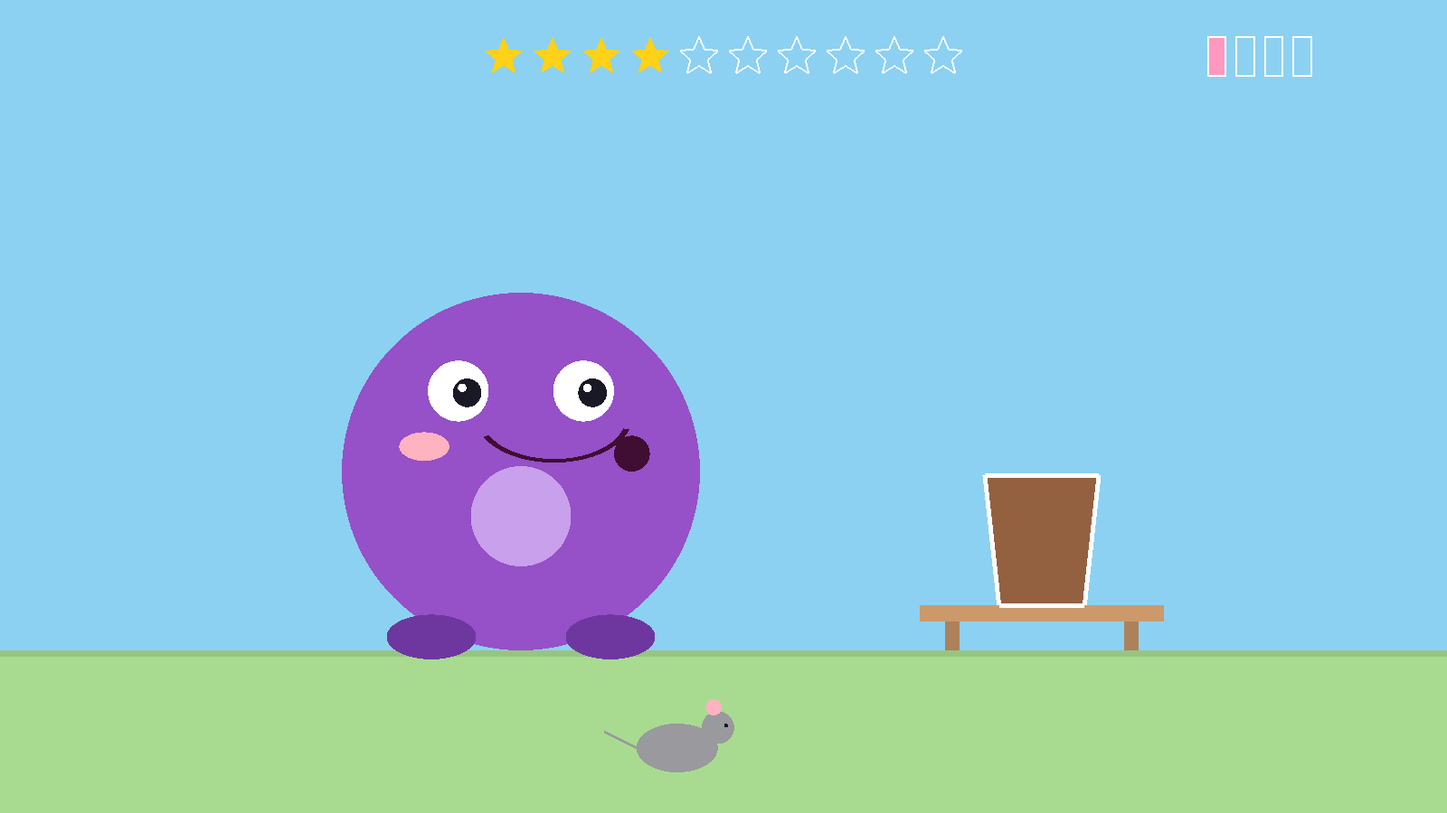
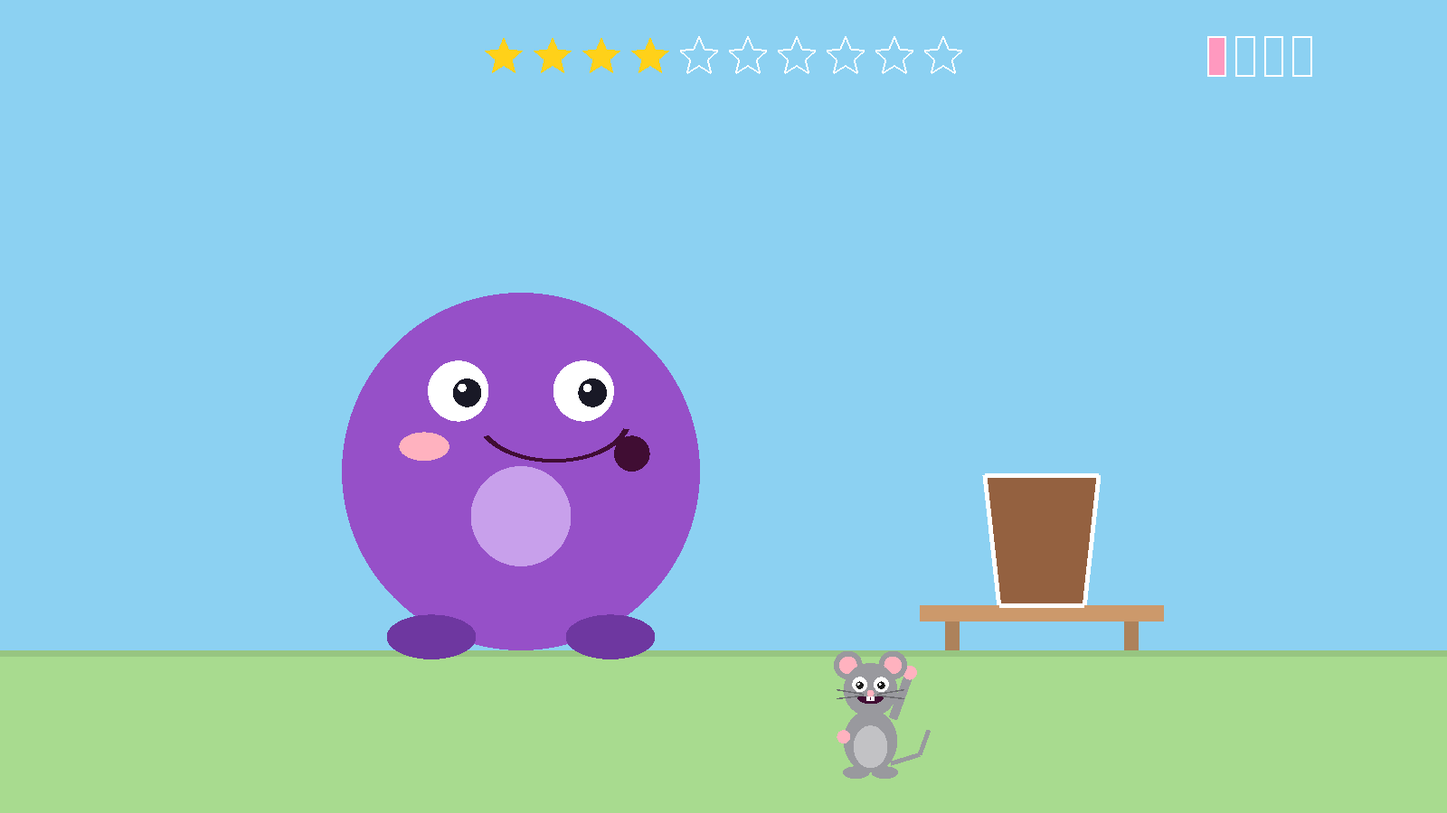
Kids docs: second run with feedback, feedback cards, the mouse's run, trial counts
- handbook/v2/kids.md: a dated section "Second run with feedback
  (2026-10-30, adult, 20 main trials)" (threshold 86.9 % SE 7.1, slope
  5.8, yes-bias 0.11, 0 of 5 false alarms, practice 11 of 12, 13.5 min;
  peak flow about 85 slm at 0 to 35 slm at 95 %), its three reports and
  what changed; frame-by-frame rows for the Mouse (run, cheeky, hide,
  during the whole move) and the practice feedback (right, wrong), the
  demo reveal kept; the comparison table's Trials and Feedback rows; the
  session steps (feedback cards, why a run goes past trial 20, console
  lines); the warning box.
- Images rendered at 1600x900 in a real Psychtoolbox window:
  08_feedback.png (chosen "squishy", the mouse pinched), new
  17_feedback_wrong.png (chosen "squishy" on a catch trial), 02_mouse.png
  (the cheeky mouse by the cup).
- README: a Feedback section, the Trials and Feedback rows, the
  experimenter line and console examples, the session (90 % demo and
  practice levels, as configured), the mouse's run in Poses, the squeak
  in Sounds, the new files, three adult runs, Esc during a move.
- TASKS: item 10.

Changed region(s): [[0.5625, 0.8089, 0.6562, 0.9644], [0.4375, 0.84, 0.5312, 0.9644]]

diff --git a/task/RRST_kids/README.md b/task/RRST_kids/README.md
@@ -18,7 +18,7 @@ a score. They are not feedback, so they are shown in every run, feedback on or o
 
 **Tutorial** (before the practice): free play at level 0 (the child slurps as often as
 they like and watches the belly fill; every slurp sets the reference), two demos with
-no question (the mouse pinching the straw during three slurps at 80 %, then asleep
+no question (the mouse pinching the straw during three slurps at 90 %, then asleep
 during three at 0, each followed by its reveal), and a bridge screen with the two
 answer cards for the experimenter to explain ("Now you say: did the mouse pinch?").
 
@@ -34,10 +34,10 @@ answer cards for the experimenter to explain ("Now you say: did the mouse pinch?
 | Levels | 0-100 % | 0-100 % in 5 % steps; `cfg.child.hardCap` (default 100, the full scale) is enforced at launch and before every move |
 | Start | Psi's choice | forced 70 % (just perceptible for an adult) |
 | Jumps | any | at most 15 % above the highest level so far |
-| Trials | 100 | 30 Psi + 10 catch; stops early when SE < 8 after 20 Psi trials |
+| Trials | 100 | 30 Psi + 10 catch, so up to 40 (plus repeats); stops early when SE < 8 after 20 *Psi* trials (catch trials do not count). The experimenter line counts them: `Trial 21 of up to 28 (Psi 15/20, catch 6/8)` |
 | Breathing | 0.8 s timed inhale | experimenter presses Space when the child is ready; then the child's own breath drives the monster (airflow sensor): the belly fills with the slurp's volume, each counted slurp drains a third of the milkshake with bubbles (`cfg.timing.drain`, 1.0 s), and the trial goes on when `cfg.child.slurps` (3) slurps have counted. No pacing. One timed breath was too hard to catch for a 4.5-year-old (first try, 2026-10-28). Without the sensor: the old timed animation (1.2 s in, 1.8 s out, x3). |
 | Answer | participant clicks | **experimenter clicks** what the child says or points at |
-| Feedback | none | practice only: the truth after every answer, shown (the mouse pinching the straw, or asleep); main trials: none, but a star flies into its slot for every answer (progress, not feedback) |
+| Feedback | none | practice: after every answer the two answer cards for 2.5 s, the correct one in a thick gold frame with a star badge (right: a gold tick and a sparkle; wrong: the chosen card fades, soft two notes); main trials: none by default (`cfg.feedback.main`), but a star flies into its slot for every answer (progress, not feedback). The tutorial demos show the reveal (the mouse pinching or asleep) |
 
 The threshold is the Weibull alpha for p("yes"): a detection threshold with the
 child's yes-bias absorbed by the guess rate, not a bias-free sensitivity measure.
@@ -130,8 +130,10 @@ killed, the session's flow is lost.
 small at the bottom left (`kidsPrompt`), and the console prints it (`>>`) whenever it
 changes: what is happening and which key goes on, e.g.
 `PRACTICE 3 of 6. Space starts the slurps. The truth is shown after the answer.` or
-`Trial 5. Space starts the slurps. No feedback; one star per answer.` (a main trial's
-line never names the level). The story's sentences follow on a second line.
+`Trial 21 of up to 28 (Psi 15/20, catch 6/8). Space starts the slurps. No feedback; one star per answer.`
+(a main trial's line never names the level; the counts are of the trials done). The
+story's sentences, and after a practice answer the truth ("Yes! The mouse pinched
+it!"), follow on a second line.
 
 **Console during the session** (the experimenter's view; the child sees none of it):
 
@@ -142,6 +144,9 @@ Free slurp 2: 0.12 L, peak 11 slm (small; sets the reference).
 Reference slurp 0.42 L (median of 6 free slurps: 0.42 L), peak 18 slm. Belly full at 0.17 L; a slurp counts above 0.11 L.
 Practice 3 of 6: level 80, answered easy (no): wrong.
 Practice round 1 NOT PASSED: 4 of 6 correct; only 4 correct, 5 needed; level 80 wrong (practice 3). Practice runs again.
+Main trials: up to 28 (20 Psi + 8 catch). Early stop: SE < 8 after 20 Psi trials.
+Trial 21: squishy (yes). Threshold 86.9 %, SE 7.1. Early stop: SE < 8 after 20 Psi trials; now SE 7.1 after 15 (5 more Psi trials needed).
+Stopped early: SE 7.1 < 8 after 20 Psi trials (27 of up to 28 trials run). Threshold 86.9 %.
 Slurp 1 counted: 0.35 L, peak 25 slm (1 of 3).
 Slurp 2 too weak (0.05 L; a slurp counts from 0.11 L): not counted, try again.
 No slurp seen for 8 s: mouthpiece in? Space = go on, x = repeat, Esc = abort
@@ -181,11 +186,13 @@ slurps:** Space = go on to the question with the slurps so far (flagged
 
 **Session:** calibration with nobody on the tube (about 0.5 min) -> story (three beats)
 -> tutorial (`cfg.tutorial`: free play at 0, sets the reference slurp; demo of the
-mouse pinching at `cfg.tutorial.pinchLevel` (80) and asleep at 0, three slurps each,
+mouse pinching at `cfg.tutorial.pinchLevel` (90) and asleep at 0, three slurps each,
 no question, each followed by the reveal; the answer cards explained) -> 6 practice
-trials, each followed by the reveal (80, 0, 80, 0, 75, 0; pass: 5 of 6 and both 80s
+trials, each followed by the feedback cards (90, 0, 90, 0, 85, 0; pass: 5 of 6 and both 90s
 right; one retry, then the session ends as `PracticeFailed_`, which is itself an
-outcome) -> up to 40 main trials with a 45-s nap every 10 -> sticker. About 15-20 s per
+outcome) -> up to 40 main trials (30 Psi + 10 catch; the run stops early once the SE
+is below 8 after 20 Psi trials, so with catch trials it usually goes past trial 20)
+with a 45-s nap every 10 -> sticker. About 15-20 s per
 trial with the timed animation, so about 15-20 minutes in all; three real slurps take
 6-8 s, so breath-driven trials are a little shorter. `cfg.tutorial.enabled = false`
 brings back the two free trials instead (`cfg.practice.nFree = 2`,
@@ -232,6 +239,28 @@ or `off`. The `.csv` has the summary columns `nSlurps` (counted slurps),
 `shortSlurps` (Space ended the slurps before three counted) and `flowLost` (the
 stream was lost during the trial); `slurpT` is the length of the slurp phase.
 
+## Feedback
+
+`cfg.feedback.practice` (default true) gives the child feedback after every practice
+answer; `cfg.feedback.main` (default false) after every main answer too, before its
+star. `cfg.feedback.style = "cards"` (default): for `cfg.timing.feedback` (2.5 s)
+both answer cards stay as on the question screen; the **correct card** gets a thick
+gold frame and a big star badge in its corner, and the chosen card keeps its white
+frame.
+
+- **Right:** a big gold tick pops up in the chosen card's top left corner, with the
+  `star` sparkle.
+- **Wrong:** the chosen card fades (its frame stays) and the mouse on the correct card
+  shows the truth: it squeezes the straw twice, or a Z floats up from it asleep, with
+  the soft `tryagain` notes. Never red or green, never a sad face.
+
+The experimenter line says `Practice: right.` or `Practice: not right.`, then the truth
+sentence. `cfg.feedback.style = "reveal"` brings back the earlier scene (the mouse
+pinching or asleep in a spotlight, 1.5 s); the tutorial demos always use it, since
+there is no answer to mark. Code: `kidsFeedbackBeat` (sequence and sound, pure),
+`kidsFeedbackLayout` (geometry, pure), `kidsQuestion(scr, txt, answer, true, truth, p)`
+(drawing), tested in `tests/TestKidsFeedback.m`.
+
 ## Poses
 
 The child reads nothing: every state has a pose of the monster (`kidsPose`, drawn by
@@ -243,7 +272,15 @@ drains; `tryagain` (head tilt, one eyebrow up, never sad) while a weak or overlo
 slurp's belly goes down (never in free play, the free trials or the demos); `celebrate` (arms up, grin) for a
 full cup, the stretch after a nap and the sticker; `sleep` (Z's) during the nap;
 `strain` (cheeks puffed, sweat drop) only in story beat 2, where the mouse pinches the
-straw. Free play waits in `ready`. The mouse runs (`run`) while the wedge moves,
+straw. Free play waits in `ready`. While the wedge moves the mouse runs from the left
+to the cup (`toCup`, scamper sound), stands by it with a cheeky face (`cheeky`: upright,
+eyes wide, a grin with two teeth, one paw waving; `squeak`) and hides behind the cup
+(`hide`). The frames are drawn while the firmware moves (the device's `'WhileWaiting'`
+callback), timed by `kidsMoveProgress`: at least `cfg.timing.moveMin` (1.5 s), as long
+as the move takes (1.3-2.8 s on the real device, 2026-10-30) plus 0.5 s, and the mouse
+never hides before the firmware has confirmed the move. The sequence is the same for
+catch and loaded trials. Esc during a move ends the session once the move is
+confirmed. The mouse
 pinches (`pinch`) in the story, during the tutorial's pinch demo (the only time it is
 seen pinching while the child breathes) and in the reveal of a loaded trial, and sleeps
 (`sleep`) during the sleep demo and in the reveal of a catch trial. `kidsBeat` gives the scene, length and cue of each moment (story beats, move,
@@ -278,13 +315,16 @@ shows every pose.
   `kidsShouldStop.m`, `kidsSchedule.m`, `kidsFlags.m`, `kidsCheckLevel.m`: the
   procedure, tested in `tests/TestKids.m` with a simulated child.
 - `code/kidsMain.m` (session), `kidsBeat.m` (scene, length and cue of each moment,
-  pure; `tests/TestKidsBeat.m`), `kidsPose.m` (geometry and poses, pure) and
+  pure; `tests/TestKidsBeat.m`), `kidsMoveProgress.m` (the move beat's clock, pure),
+  `kidsPose.m` (geometry and poses, pure) and
   `kidsScene.m` (drawing, simple shapes only; `tests/TestKidsScene.m`),
   `kidsQuestion.m`, `kidsQuestionLayout.m` (answer screen; `tests/TestKidsQuestion.m`),
-  `kidsText.m`, `kidsSave.m`.
+  `kidsFeedbackBeat.m`, `kidsFeedbackLayout.m` (the child's feedback;
+  `tests/TestKidsFeedback.m`), `kidsText.m`, `kidsSave.m`.
 - `code/kidsOpenMarkers.m`, `kidsWaitsForRecorder.m`, `kidsMarkerLabel.m`: LSL markers
   through the shared `task/helpers/rrstMarker.m`, tested in `tests/TestKidsMarkers.m`.
-- `code/kidsPrompt.m`: the experimenter's line per moment (pure;
+- `code/kidsPrompt.m`: the experimenter's line per moment, and `kidsRunReport.m`: the
+  console's plan, estimate and stop reason for the main trials (both pure;
   `tests/TestKidsPrompt.m`).
 - `code/kidsTutorialPlan.m` (the tutorial's steps, pure), `kidsFreePlay.m` (free
   play), `kidsSetReference.m`, tested in `tests/TestKidsTutorial.m`.
@@ -311,8 +351,9 @@ file's sample rate and keeps it running for the session. Two slave devices are m
 into it: one loops the rain at `cfg.noise.volume`, the other plays short cue sounds at
 `cfg.sound.volume`, so a cue never interrupts the masking. The cues are generated in
 code by `kidsCueWave` (no sound files): `ready` (rising two-note chime), `slurp`,
-`bubbles`, `star` (sparkle), `cup` (fanfare), `mouse` (scamper ticks) and `tryagain`
-(soft two notes a whole tone down, neutral, never sad). Usage:
+`bubbles`, `star` (sparkle), `cup` (fanfare), `mouse` (scamper ticks), `squeak` (two
+short rising chirps, the cheeky mouse) and `tryagain` (soft two notes a whole tone
+down, neutral, never sad). Usage:
 
 ```matlab
 snd = kidsSound(cfg.noise, cfg.sound);   % replaces startMaskingNoise(cfg.noise)
@@ -327,10 +368,11 @@ snd.close();                             % replaces stopMaskingNoise; also on er
 stops the session; check the console for that warning. `snd.active` (cues) and
 `snd.rainOn` (rain) say what is playing. `kidsMain` uses it instead of
 `startMaskingNoise` (never both): `ready` on "Ready to slurp?" (also after a nap),
-`mouse` while the wedge moves, in story beat 2 and in the practice reveal of a loaded
-trial, `slurp` at a slurp's onset, `bubbles` when it counts (and for every free slurp
-but an overlong one), `tryagain` when it does not (never in the free trials), `star`
-when the star flies, `cup` when the cup tips. A cue at its peak over a
+`mouse` while the wedge moves, in story beat 2 and in the reveal of a loaded trial,
+`squeak` when the mouse stands by the cup, `slurp` at a slurp's onset, `bubbles` when
+it counts (and for every free slurp but an overlong one), `tryagain` when it does not
+(never in the free trials) and after a wrong answer, `star` when the star flies and
+after a right answer, `cup` when the cup tips. A cue at its peak over a
 loud rain droplet can clip briefly (0.6 + 0.72 > 1); lower `cfg.sound.volume` if that
 is audible.
 
@@ -361,11 +403,13 @@ ever exceeded the cap. Two problems:
 
 ## Not done or not checked
 
-- Never run with a child. Two adult runs on the real device: 2026-10-28 (timed
-  animation) and 2026-10-30 (breath feedback; every slurp detected, aborted in the
-  second practice round, which led to the tutorial and the experimenter line). The
-  tutorial has run only in unattended mock sessions. Next:
-  `docs/kids_pilot_protocol_2026-10-30.md`.
+- Never run with a child. Three adult runs on the real device: 2026-10-28 (timed
+  animation), 2026-10-30 (breath feedback; every slurp detected, aborted in the
+  second practice round, which led to the tutorial and the experimenter line) and
+  2026-10-30 again (20 main trials with the tutorial; its three reports led to the
+  mouse's run during the move, the feedback cards and the trial counts, see
+  `handbook/v2/kids.md`). The feedback cards, the cheeky mouse and the counts have run
+  only in unattended mock sessions. Next: `docs/kids_pilot_protocol_2026-10-30.md`.
 - Cue sounds have run without error on the stim PC (2026-10-30, nobody listening);
   not heard by a child, and their timing and loudness over the rain have not been
   checked by ear.
@@ -379,7 +423,8 @@ ever exceeded the cap. Two problems:
   sprites; the plan's sprite textures (U3) are not done.
 - The answer screen (`kidsQuestion.m`) repeats drawing helpers of `kidsScene.m`
   (monster face, mouse poses); keep them in step until they are shared.
-- Esc is checked during animations, answers and rests, not while the wedge is moving.
+- Esc pressed while the wedge moves is acted on once the firmware has confirmed the
+  move (the reply is always read), so it can take up to a move's length (about 3 s).
 - Translations; the colours and drawings have not been seen by a child.
 - Design questions from the spec: the cap, what to report when a child's threshold
   is above the cap (practice fails), and whether mouth pressure should be recorded

diff --git a/handbook/v2/kids.md b/handbook/v2/kids.md
@@ -2,10 +2,12 @@
 
 !!! warning "In development: not for use with children yet"
     RRST-Kids ("Milkshake Monster") has run on the real device with one adult tester
-    only: once before the breath-driven version, once with it (aborted in practice,
-    see [First real run with feedback](#first-real-run-with-feedback-2026-10-30-adult)).
-    The tutorial has run only in mock sessions, the cue sounds have not been checked
-    by ear, the child-facing
+    only: once before the breath-driven version, twice with it (aborted in practice,
+    see [First real run with feedback](#first-real-run-with-feedback-2026-10-30-adult);
+    then 20 main trials, see
+    [Second run with feedback](#second-run-with-feedback-2026-10-30-adult-20-main-trials)).
+    The feedback cards and the mouse's run to the cup have run only in mock sessions,
+    the cue sounds have not been checked by ear, the child-facing
     text is English only, and the 85 % cap has not been checked on a flow rig (see
     [Open questions](#open-questions)). It lives on the `kids-variant` branch, in
     `task/RRST_kids/`. The next step is the pilot protocol in
@@ -45,10 +47,10 @@ ask.
 | Levels | 0-100 % | 0-100 % in 5 % steps; a configurable cap (`cfg.child.hardCap`, default 100) is enforced at launch and before every move |
 | Start | Psi's choice | 70 % |
 | Jumps | any | at most 15 % above the highest level so far |
-| Trials | set by the study | 30 Psi + 10 catch; stops early when SE < 8 after 20 Psi trials |
+| Trials | set by the study | 30 Psi + 10 catch, so up to 40 (plus repeats); stops early when SE < 8 after 20 *Psi* trials, so with catch trials a run goes past trial 20. The experimenter line counts them: `Trial 21 of up to 28 (Psi 15/20, catch 6/8)` |
 | Breathing | timed inhale cue | experimenter starts the trial; the **child's breath drives the screen** (airflow sensor): the belly fills with the slurp, each slurp that counts drains a third of the milkshake. The trial goes on after 3 counted slurps; Space ends them early. Without the sensor: a timed animation (1.2 s in, 1.8 s out, x3) |
 | Answer | participant clicks | **experimenter clicks** one of two equally nice scene cards ("easy": the mouse asleep; "squishy": the mouse pinching), the one the child names or points at |
-| Feedback | none | tutorial demos and practice: the truth after every trial, shown (the mouse pinching or asleep); main trials: none (a star flies into its slot for every answer, right or wrong) |
+| Feedback | none | practice: after every answer, the two answer cards for 2.5 s with the **correct card in a thick gold frame and a star badge**; right: a gold tick and a sparkle; wrong: the chosen card fades and the mouse on the correct card squeezes the straw (or a Z floats up from it asleep), soft two notes. Main trials: none by default (`cfg.feedback.main = true` turns the cards on), but a star flies into its slot for every answer, right or wrong. Tutorial demos: the reveal (the mouse pinching or asleep) |
 
 Why yes/no: a 4-year-old struggles to hold two breaths in memory and compare them.
 The cost is that the threshold is a detection threshold that absorbs the child's
@@ -85,9 +87,10 @@ T-valve's small backflow after each breath is negative and never starts a slurp.
 
 The child's screen has no text to read: every state has a pose and a sound. The
 small bottom-left line is for the experimenter: first what is happening and which key
-goes on (`PRACTICE 3 of 6. Space starts the slurps. ...`, `Trial 5. Space starts the
-slurps. No feedback; one star per answer.`), then the story's sentence. The console
-prints the same line.
+goes on (`PRACTICE 3 of 6. Space starts the slurps. ...`, `Trial 21 of up to 28 (Psi
+15/20, catch 6/8). Space starts the slurps. No feedback; one star per answer.`; the
+counts are of the trials done), then the story's sentence or the truth after a
+practice answer. The console prints the same line.
 
 | | |
 |---|---|
@@ -95,14 +98,15 @@ prints the same line.
 | ![Story, beat 2](../assets/img/kids/14_story2.png) | **Story, beat 2.** The mouse pinches the straw (scamper sound); the monster strains, cheeks puffed. Beat 3: the mouse runs off and the monster relaxes. |
 | ![Free play](../assets/img/kids/15_freeplay.png) | **Tutorial, free play.** Wedge at 0. The monster waits in its ready pose; every slurp fills the belly and drinks a third of the glass, and an empty glass is replaced at once. The child slurps as often as they like; Space ends it after at least one slurp. Every slurp sets the reference. |
 | ![Demo, mouse pinching](../assets/img/kids/16_demo_pinch.png) | **Tutorial, demo 1.** The wedge at 90 % and the mouse pinching the straw *while* the child slurps three times: the only time the pinch is seen during breathing. Then the reveal. Demo 2 is the same at 0 with the mouse asleep. Then the two answer cards, explained, and the practice. |
-| ![Mouse running](../assets/img/kids/02_mouse.png) | **Mouse.** The mouse scampers along the bottom (scamper sound) while the wedge moves, at least 1.5 s. On catch trials the wedge moves to 0; the screen is the same. |
+| ![Mouse by the cup](../assets/img/kids/02_mouse.png) | **Mouse.** While the wedge moves, the mouse runs from the left along the ground to the cup (scamper sound), stops by it with a cheeky face (upright, eyes wide, a grin, one paw waving; a squeak), then hops behind the cup. It animates for the whole move: the frames are drawn while the firmware moves, at least 1.5 s and until 0.5 s after the move is confirmed, and the mouse hides only once the wedge is in place. On catch trials the wedge moves to 0; the screen is the same. |
 | ![Ready](../assets/img/kids/03_cue.png) | **Ready to slurp?** The monster looks at the child, eyebrows up, mouth open on a wiggling straw, with a chime. When the child has the mouthpiece in and is ready, the experimenter presses Space. |
 | ![Slurp](../assets/img/kids/04_inhale.png) | **Slurp.** As soon as the child inhales, the monster slurps (cheeks in, happy eyes, lines running up the straw) and the belly fills with the breath. |
 | ![Ahh](../assets/img/kids/05_exhale.png) | **Ahhh.** When the slurp ends and counts, a third of the milkshake drains, bubbles rise and the belly goes down. After the third counted slurp the question comes; the child takes them at their own pace (6-8 s for three). |
 | ![Question](../assets/img/kids/06_question.png) | **Question.** "Did the mouse pinch the straw?" Two equally bright scene cards: the mouse asleep ("easy") and the mouse pinching ("squishy"), a cheerful monster on both. The child says or points; the experimenter clicks that card. A white ring marks the card under the pointer. |
 | ![Answer registered](../assets/img/kids/07_answered.png) | **Answer registered.** The chosen card is framed and the other fades for 0.5 s. |
-| ![Practice reveal, pinch](../assets/img/kids/08_feedback.png) | **Practice reveal.** Practice only, after every answer: the truth for 1.5 s. On a loaded trial the mouse is shown pinching the straw, in a spotlight, with the scamper sound... |
-| ![Practice reveal, asleep](../assets/img/kids/13_reveal.png) | **...and on a catch trial it is asleep under the table.** |
+| ![Practice feedback, right](../assets/img/kids/08_feedback.png) | **Practice feedback, right.** After every practice answer, for 2.5 s: the two cards stay, the correct card gets a thick gold frame and a big star badge, the chosen card keeps its white frame. Right: a big gold tick pops up on it, with a sparkle. Here the child said "squishy" and the mouse did pinch. |
+| ![Practice feedback, wrong](../assets/img/kids/17_feedback_wrong.png) | **Practice feedback, wrong.** The child said "squishy" on a catch trial: the gold frame and star go to "easy", the chosen card fades, and on the correct card a Z floats up from the sleeping mouse (on a loaded trial the mouse squeezes the straw twice), with soft two notes. No red or green, no sad face. The experimenter line says `Practice: not right. The gold card shows the truth.` and the truth sentence. Main trials get the same with `cfg.feedback.main = true`. |
+| ![Demo reveal, asleep](../assets/img/kids/13_reveal.png) | **Demo reveal.** After each tutorial demo (there is no answer to mark) the mouse is shown pinching the straw or, as here, asleep under the table, in a spotlight, for 1.5 s. `cfg.feedback.style = "reveal"` uses this for the practice too, as before 2026-10-30. |
 | ![Star](../assets/img/kids/09_star.png) | **Star.** Main trials: for every answer, right or wrong, a star flies from the monster's belly into the next slot, with a sparkle. Stars count answers, not correct answers, so they are shown in every run. |
 | ![Cup finished](../assets/img/kids/10_cupdone.png) | **Cup finished.** The tenth star: the empty glass tips into the done row at the top right (fanfare), then the monster dances with its arms up and a new milkshake in the next flavour (pink, chocolate, mint, blueberry). Give a sticker, then Space. |
 | ![Rest](../assets/img/kids/11_rest.png) | **Rest.** Every 10 trials the monster naps (Z's) for 45 s while a bar drains; then it stretches, and "Ready to slurp?" comes back. Space goes on. |
@@ -120,13 +124,16 @@ the console.
 2. **Story** (three beats), then the **tutorial**: free play (sets the reference
    slurp), the pinch demo at 90 and the sleep demo at 0 (three slurps each, no
    question, each followed by the reveal), the answer cards explained.
-3. **Practice**: 6 trials (90, 0, 90, 0, 85, 0), each followed by the reveal, marked
-   `PRACTICE k of 6` on the experimenter line. Pass: 5 of 6 right, including both 80s.
+3. **Practice**: 6 trials (90, 0, 90, 0, 85, 0), each followed by the feedback cards,
+   marked `PRACTICE k of 6` on the experimenter line. Pass: 5 of 6 right, including both 90s.
    The console prints every practice answer and, after each round, whether it passed
    and why not. One retry; a second failure ends the session as `PracticeFailed_`,
    which is itself a result.
-4. **Main trials**: up to 40, a nap every 10. With breath-driven slurps a trial is
-   about 12-15 s.
+4. **Main trials**: up to 40 (30 Psi + 10 catch), a nap every 10. The run stops early
+   once the threshold's SE is below 8 after 20 *Psi* trials; catch trials do not count,
+   so it usually goes past trial 20. The console prints the plan at the start, after
+   every answer the threshold, its SE and where the early stop stands, and at the end
+   why the run stopped. With breath-driven slurps a trial is about 12-15 s.
 5. **Sticker.** About 12-20 minutes in all.
 
 ## Running it
@@ -191,6 +198,9 @@ No slurp seen for 8 s: mouthpiece in? Space = go on, x = repeat, Esc = abort
 Slurp 3 lasted over 6 s: not counted. Flow is not returning to zero: check the circuit for a leak or a draught at the inlet.
 Airflow stream lost: this trial finishes with the timed animation (flowLost). ...
 Airflow stream is back.
+Main trials: up to 28 (20 Psi + 8 catch). Early stop: SE < 8 after 20 Psi trials.
+Trial 21: squishy (yes). Threshold 86.9 %, SE 7.1. Early stop: SE < 8 after 20 Psi trials; now SE 7.1 after 15 (5 more Psi trials needed).
+Stopped early: SE 7.1 < 8 after 20 Psi trials (27 of up to 28 trials run). Threshold 86.9 %.
 ```
 
 If no free slurp was seen at all, the reference stays at 0.6 L and the console says
@@ -278,6 +288,35 @@ demos, the answer cards), stars explained above, and a 1.0 s drain
 An adult failing practice at 80 % was near threshold (the first adult pilot's
 threshold was 79 %); practice is now 90/90/85 and the cap is full scale. The round outcome is visible on the
 console with the reason.
+
+## Second run with feedback (2026-10-30, adult, 20 main trials)
+
+The experimenter again, real device, breath feedback on, the tutorial and 20 Psi + 8
+catch trials configured. Threshold 86.9 % (SE 7.1), slope 5.8, yes-bias 0.11, 0 of 5
+false alarms on catch trials, practice 11 of 12 right, 13.5 minutes in all. Peak flow
+fell from about 85 slm at 0 to 35 slm at 95 %. Three reports:
+
+- **"The mouse is not animating during the wedge move; it should run over to the drink
+  and make a cheeky face and noise during this period and actually animate."** The
+  move waited for the firmware (1.3 to 2.8 s per trial) before the mouse's 1.5 s
+  animation, so almost none of it was left and the mouse jumped to the end. Now the
+  device layer calls back on every poll while the firmware moves (`'WhileWaiting'` on
+  `rrst.Device.moveTo` and `rrst.Stimulator.present`/`null`/`rest`/`park`; the
+  firmware's reply stays the source of truth), and the mouse runs to the cup, stops
+  with a cheeky face and a squeak, and hides behind the cup, for as long as the move
+  takes and at least 1.5 s; it hides only after the move is confirmed.
+- **"The feedback in the training is super weird and only in the text given to the
+  experimenter; there should be clear, easy-to-understand visual feedback for the
+  participant."** The reveal (the mouse in a spotlight, the cup empty) did not say
+  which answer was right. Now the practice shows the two answer cards with the correct
+  one in gold, a star badge, a tick when right, the chosen card faded when wrong (see
+  the frames above). `cfg.feedback.main` gives the same in the main trials;
+  `cfg.feedback.style = "reveal"` keeps the old scene.
+- **"It said trial 21 and ran a 3rd break block when it should have ended after 20
+  trials."** Not a bug: 20 Psi + 8 catch is up to 28 trials, and the early stop needs
+  20 *Psi* trials (15 had run by trial 21). The experimenter could not see that; now
+  the line says `Trial 21 of up to 28 (Psi 15/20, catch 6/8)` and the console prints
+  the plan, the estimate after every answer and why the run stopped.
 
 ## Open questions
 

diff --git a/TASKS.md b/TASKS.md
@@ -126,6 +126,11 @@ session so a fresh session can continue from the files.
        reusable by the adult task), never waits for a recorder, saves `result.flow`,
        `result.markers` and `<name>_flow.csv`; 394 tests pass, checked live on the stim
        laptop (mock device); not yet run with the real device and a person.
+    10. After the second real run with feedback (2026-10-30, adult, 20 main trials; branch
+       `kids-feedback`): the mouse runs, looks cheeky and hides during the whole move
+       (device `'WhileWaiting'` callback), practice feedback the child can see (answer
+       cards, the correct one in gold), and trial counts on the experimenter line and
+       console; mock session only, not yet on the real device.
     Tests: 366 pass (whole suite, 2026-10-30); an unattended mock session with the
     simulated child completes through the tutorial and on the breath path (3 counted
     slurps every trial). Next: the pilot protocol
